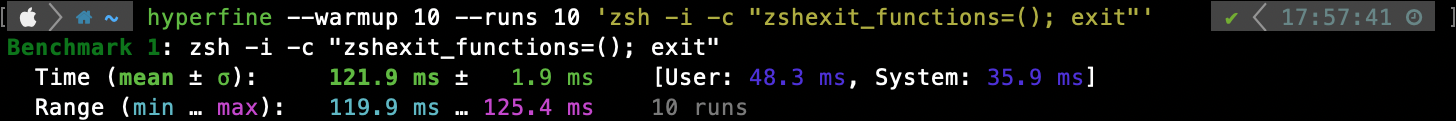
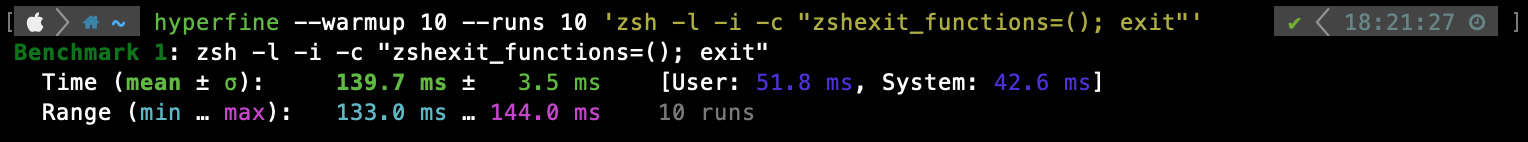
fix(zsh/test): load .zprofile during zsh startup benchmark.

diff --git a/README.md b/README.md
@@ -173,6 +173,6 @@ The published benchmark history is available here:<br>
 
 > [!NOTE]
 > The published benchmark history and benchmark results shown on pull requests are measured on GitHub Actions runners, so they might be slower than the results on your local machine.<br>
-> As a local reference, on a Mac with Apple M2 and 16 GB memory, `zsh -i -c "zshexit_functions=(); exit"` takes about 121.9 ms in this repository.
+> As a local reference, on a Mac with Apple M2 and 16 GB memory, `zsh -l -i -c "zshexit_functions=(); exit"` takes about 139.7 ms in this repository.
 
 ![Local benchmark result on Apple M2 with 16 GB memory](images/benchmark_local.png)